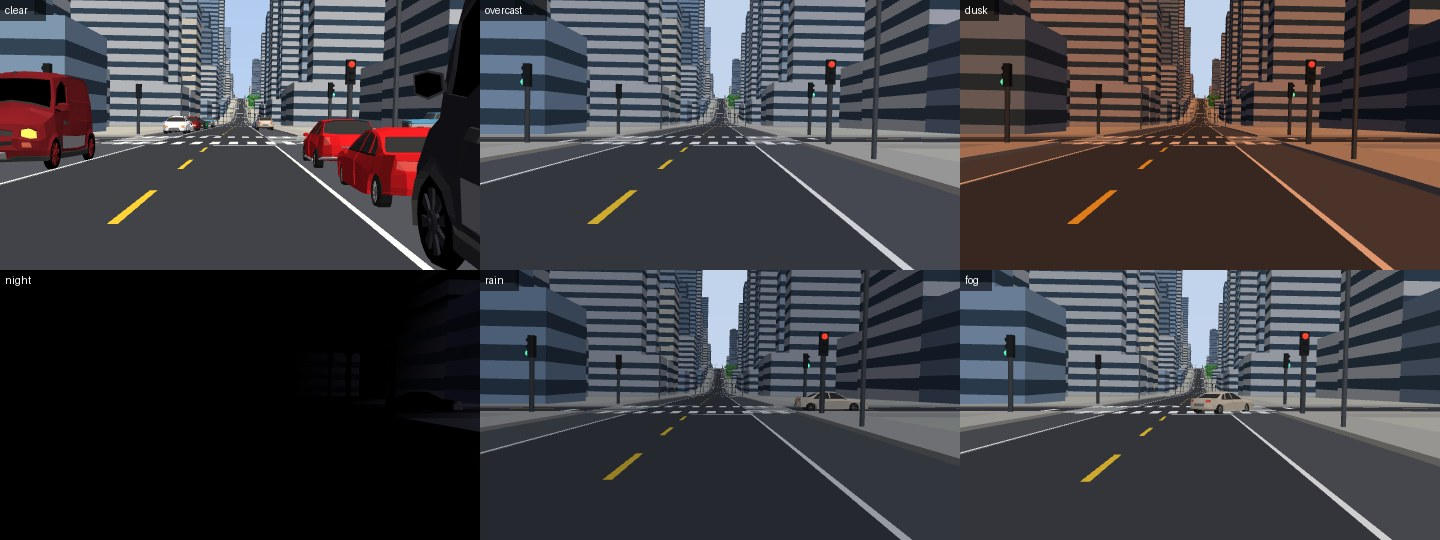
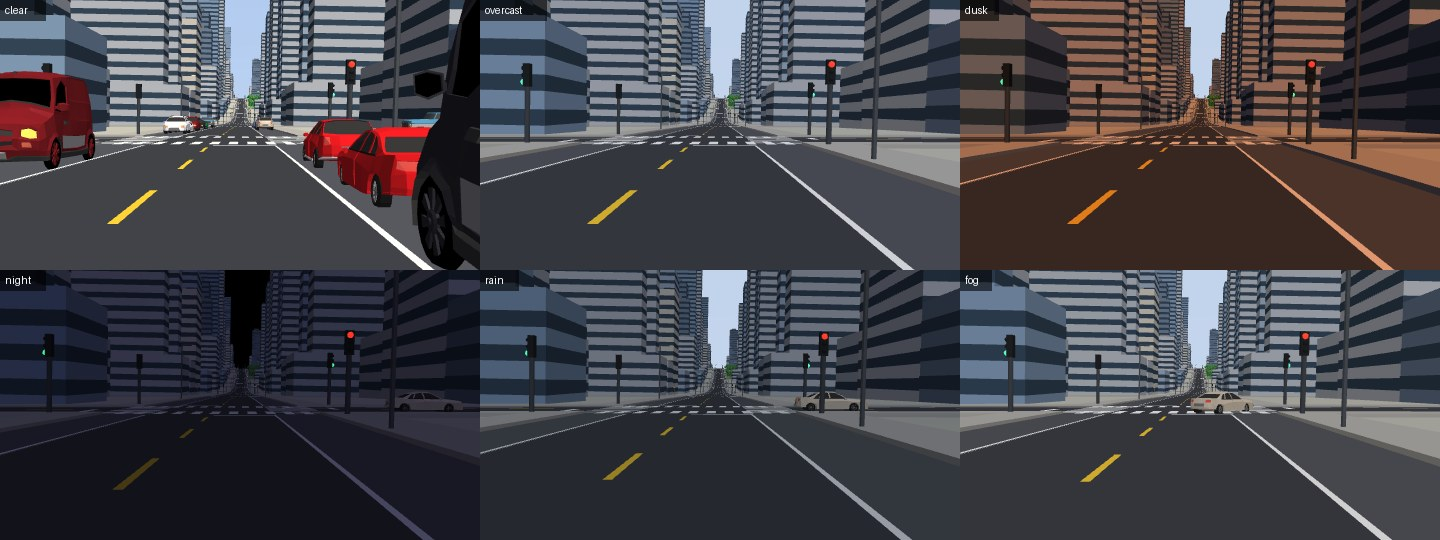
Docs: re-render the weather strip (night was black), describe night lighting correctly

Changed region(s): [[0.0, 0.4741, 0.3438, 1.0]]

diff --git a/metatraffic3d/README.md b/metatraffic3d/README.md
@@ -81,8 +81,11 @@ discretionary lane changes, kerb parking with pull-in/pull-out, congestion-aware
   vehicles on a siren run (others change lanes or pull aside; priority at junctions), signal
   outages (junction becomes an all-way stop), hard braking, red-light runners, aggressive cut-ins,
   delivery double-parking.
-* **Weather and time of day**: clear, overcast, dusk, night (headlights), rain (road friction 0.65),
-  fog; drivers keep longer gaps and slow down in bad conditions.
+* **Weather and time of day**: clear, overcast, dusk, night (a dim, street-lit city; car
+  headlights are off because MuJoCo's spot lights darken the rest of the scene), rain (road
+  friction 0.65), fog; drivers keep longer gaps and slow down in bad conditions.
+
+![one street through the main camera in all six weathers](../docs/images/weather.jpg)
 
 ## Self-driving: camera-only, end-to-end (`driving/`)
 
